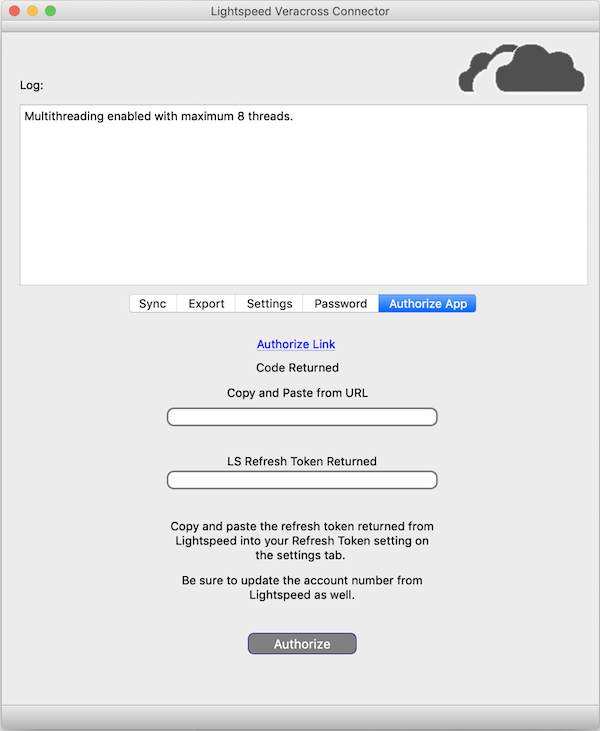
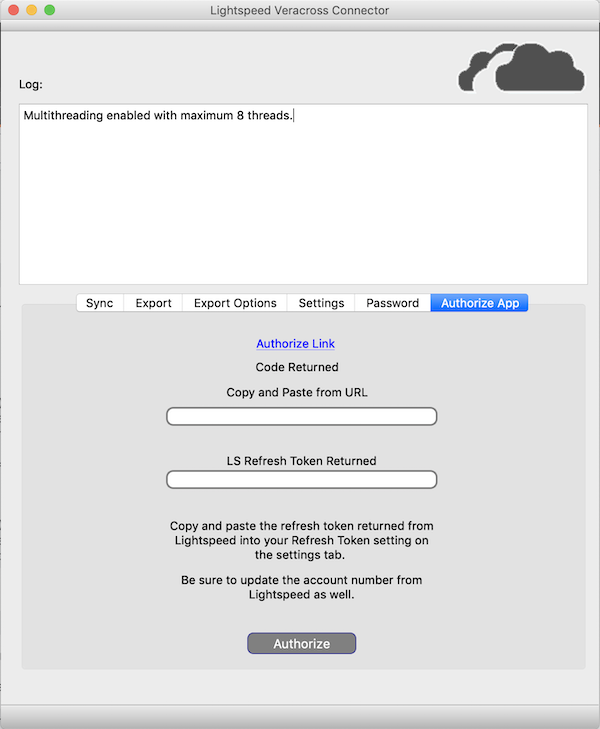
vc export updates

diff --git a/mainwindow.py b/mainwindow.py
@@ -202,6 +202,47 @@ class Ui_MainWindow(object):
         self.chk_ExportSaleLinesEnabled.setObjectName("chk_ExportSaleLinesEnabled")
         self.gridLayout_4.addWidget(self.chk_ExportSaleLinesEnabled, 3, 1, 1, 1)
         self.tabs.addTab(self.functionsTab, "")
+        self.tab_ExportOptions = QtWidgets.QWidget()
+        self.tab_ExportOptions.setObjectName("tab_ExportOptions")
+        self.gridLayoutWidget_5 = QtWidgets.QWidget(self.tab_ExportOptions)
+        self.gridLayoutWidget_5.setGeometry(QtCore.QRect(10, 40, 611, 121))
+        self.gridLayoutWidget_5.setObjectName("gridLayoutWidget_5")
+        self.gridLayout_5 = QtWidgets.QGridLayout(self.gridLayoutWidget_5)
+        self.gridLayout_5.setContentsMargins(11, 11, 11, 11)
+        self.gridLayout_5.setSpacing(6)
+        self.gridLayout_5.setObjectName("gridLayout_5")
+        self.txt_ExportOptionsTransactionSource = QtWidgets.QLineEdit(self.gridLayoutWidget_5)
+        self.txt_ExportOptionsTransactionSource.setObjectName("txt_ExportOptionsTransactionSource")
+        self.gridLayout_5.addWidget(self.txt_ExportOptionsTransactionSource, 1, 1, 1, 1)
+        self.txt_ExportOptionsTransactionType = QtWidgets.QLineEdit(self.gridLayoutWidget_5)
+        self.txt_ExportOptionsTransactionType.setObjectName("txt_ExportOptionsTransactionType")
+        self.gridLayout_5.addWidget(self.txt_ExportOptionsTransactionType, 0, 1, 1, 1)
+        self.label_21 = QtWidgets.QLabel(self.gridLayoutWidget_5)
+        self.label_21.setObjectName("label_21")
+        self.gridLayout_5.addWidget(self.label_21, 1, 0, 1, 1)
+        self.label_20 = QtWidgets.QLabel(self.gridLayoutWidget_5)
+        self.label_20.setObjectName("label_20")
+        self.gridLayout_5.addWidget(self.label_20, 0, 0, 1, 1)
+        self.label_22 = QtWidgets.QLabel(self.gridLayoutWidget_5)
+        self.label_22.setObjectName("label_22")
+        self.gridLayout_5.addWidget(self.label_22, 2, 0, 1, 1)
+        self.txt_ExportOptionsSchoolYear = QtWidgets.QLineEdit(self.gridLayoutWidget_5)
+        self.txt_ExportOptionsSchoolYear.setObjectName("txt_ExportOptionsSchoolYear")
+        self.gridLayout_5.addWidget(self.txt_ExportOptionsSchoolYear, 2, 1, 1, 1)
+        self.label_23 = QtWidgets.QLabel(self.tab_ExportOptions)
+        self.label_23.setGeometry(QtCore.QRect(10, 10, 251, 16))
+        self.label_23.setObjectName("label_23")
+        self.verticalLayoutWidget_2 = QtWidgets.QWidget(self.tab_ExportOptions)
+        self.verticalLayoutWidget_2.setGeometry(QtCore.QRect(10, 339, 611, 41))
+        self.verticalLayoutWidget_2.setObjectName("verticalLayoutWidget_2")
+        self.verticalLayout_2 = QtWidgets.QVBoxLayout(self.verticalLayoutWidget_2)
+        self.verticalLayout_2.setContentsMargins(11, 11, 11, 11)
+        self.verticalLayout_2.setSpacing(6)
+        self.verticalLayout_2.setObjectName("verticalLayout_2")
+        self.btn_SaveExportOptions = QtWidgets.QPushButton(self.verticalLayoutWidget_2)
+        self.btn_SaveExportOptions.setObjectName("btn_SaveExportOptions")
+        self.verticalLayout_2.addWidget(self.btn_SaveExportOptions)
+        self.tabs.addTab(self.tab_ExportOptions, "")
         self.tab_Settings = QtWidgets.QWidget()
         self.tab_Settings.setObjectName("tab_Settings")
         self.gridLayoutWidget = QtWidgets.QWidget(self.tab_Settings)
@@ -347,7 +388,7 @@ class Ui_MainWindow(object):
         self.menuBar.addAction(self.menuFile.menuAction())
 
         self.retranslateUi(MainWindow)
-        self.tabs.setCurrentIndex(0)
+        self.tabs.setCurrentIndex(2)
         QtCore.QMetaObject.connectSlotsByName(MainWindow)
 
     def retranslateUi(self, MainWindow):
@@ -399,6 +440,12 @@ class Ui_MainWindow(object):
         self.label_13.setText(_translate("MainWindow", "End Date Range"))
         self.label_4.setText(_translate("MainWindow", "Export SaleLines"))
         self.tabs.setTabText(self.tabs.indexOf(self.functionsTab), _translate("MainWindow", "Export"))
+        self.label_21.setText(_translate("MainWindow", "Transaction_Source"))
+        self.label_20.setText(_translate("MainWindow", "Transaction_Type"))
+        self.label_22.setText(_translate("MainWindow", "School_Year"))
+        self.label_23.setText(_translate("MainWindow", "Additional Veracross Import Fields"))
+        self.btn_SaveExportOptions.setText(_translate("MainWindow", "Save"))
+        self.tabs.setTabText(self.tabs.indexOf(self.tab_ExportOptions), _translate("MainWindow", "Export Options"))
         self.label_7.setText(_translate("MainWindow", "VC Username"))
         self.label_8.setText(_translate("MainWindow", "VC Password"))
         self.label_6.setText(_translate("MainWindow", "LS Developer Client Secret"))

diff --git a/main.py b/main.py
@@ -98,6 +98,9 @@ class Main(QMainWindow):
         # Settings Buttons
         self.ui.btn_SaveSettings.clicked.connect(self.save_settings_button)
 
+        # Export Options Buttons
+        self.ui.btn_SaveExportOptions.clicked.connect(self.save_settings_button)
+
         # Action Menu
         self.ui.actionQuit.triggered.connect(self.close)
 
@@ -128,6 +131,12 @@ class Main(QMainWindow):
             self.ui.txt_RefreshToken.setText(self.c["refresh_token"])
         if "account_id" in self.c.keys():
             self.ui.txt_LSAccountID.setText(self.c["account_id"])
+        if "vc_export_transaction_source" in self.c.keys():
+            self.ui.txt_ExportOptionsTransactionSource.setText(self.c["vc_export_transaction_source"])
+        if "vc_export_transaction_type" in self.c.keys():
+            self.ui.txt_ExportOptionsTransactionType.setText(self.c["vc_export_transaction_type"])
+        if "vc_export_school_year" in self.c.keys():
+            self.ui.txt_ExportOptionsSchoolYear.setText(self.c["vc_export_school_year"])
 
         # Set Active Tab to Sync
         self.ui.tabs.setCurrentIndex(0)
@@ -408,7 +417,10 @@ class Main(QMainWindow):
                  'Description',
                  'item_category',
                  'Customer_Account_Number',
-                 'Customer_Name']
+                 'Customer_Name',
+                 'Transaction_Type',
+                 'Transaction_Source',
+                 'School_Year']
 
             saleline_export_data.append(f)
 
@@ -447,7 +459,10 @@ class Main(QMainWindow):
                                                    str(s['Item']['description']),
                                                    str(s['Item']['categoryID']),
                                                    str(i['Customer']['companyRegistrationNumber']),
-                                                   str(i['Customer']['firstName'] + " " + i['Customer']['lastName'])
+                                                   str(i['Customer']['firstName'] + " " + i['Customer']['lastName']),
+                                                   self.ui.txt_ExportOptionsTransactionType.text(),
+                                                   self.ui.txt_ExportOptionsTransactionSource.text(),
+                                                   self.ui.txt_ExportOptionsSchoolYear.text()
                                                    ]
                                 saleline_export_data.append(saleline_single)
                             except:
@@ -465,7 +480,10 @@ class Main(QMainWindow):
                                                    str(i["SaleLines"]["SaleLine"]['Item']['description']),
                                                    str(i["SaleLines"]["SaleLine"]['Item']['categoryID']),
                                                    str(i['Customer']['companyRegistrationNumber']),
-                                                   str(i['Customer']['firstName'] + " " + i['Customer']['lastName'])
+                                                   str(i['Customer']['firstName'] + " " + i['Customer']['lastName']),
+                                                   self.ui.txt_ExportOptionsTransactionType.text(),
+                                                   self.ui.txt_ExportOptionsTransactionSource.text(),
+                                                   self.ui.txt_ExportOptionsSchoolYear.text()
                                                    ]
                                 saleline_export_data.append(saleline_single)
                         except:
@@ -650,6 +668,9 @@ class Main(QMainWindow):
             "refresh_token": self.ui.txt_RefreshToken.text(),
             "client_secret": self.ui.txt_DevelSecret.text(),
             "client_id": self.ui.txt_LSDevelID.text(),
+            "vc_export_transaction_source": self.ui.txt_ExportOptionsTransactionSource.text(),
+            "vc_export_transaction_type": self.ui.txt_ExportOptionsTransactionType.text(),
+            "vc_export_school_year": self.ui.txt_ExportOptionsSchoolYear.text()
         }
         # Save settings
         config.save_settings(settings, "config", self.config_passwd)

diff --git a/README.md b/README.md
@@ -17,6 +17,8 @@ Features include:
 
 ![alt text](images/export.png "Export Tab")
 
+![alt text](images/export_options.png "Export Options Tab")
+
 ![alt text](images/settings.png "Settings Tab")
 
 ![alt text](images/password_tab.png "Password Tab")
